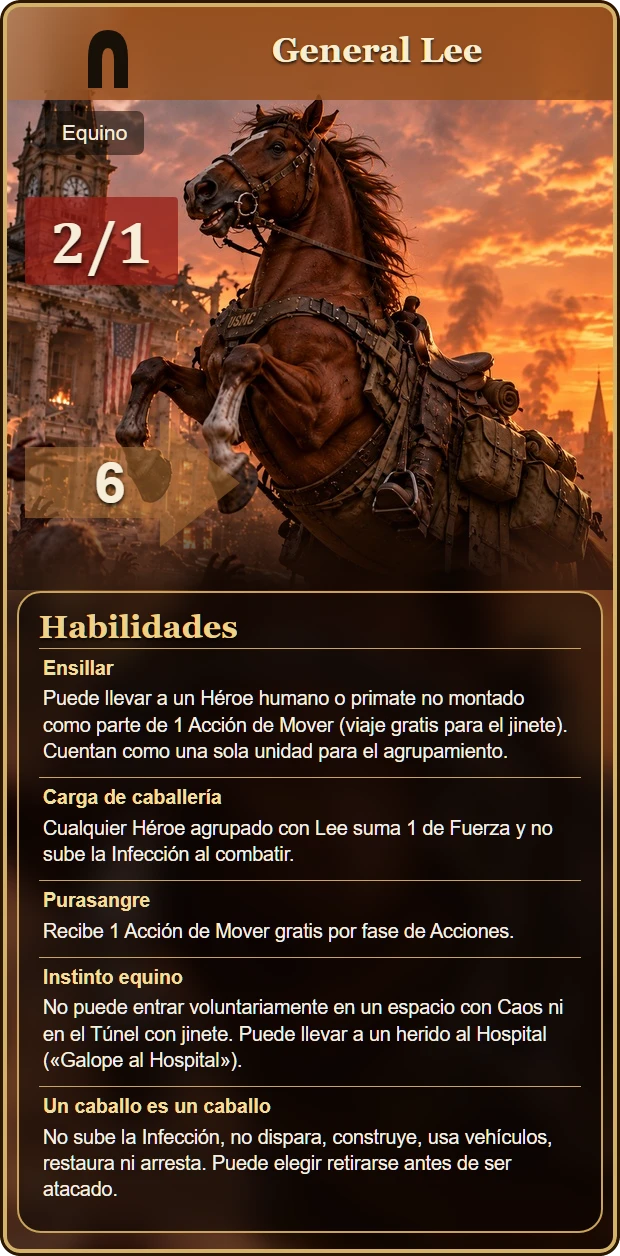
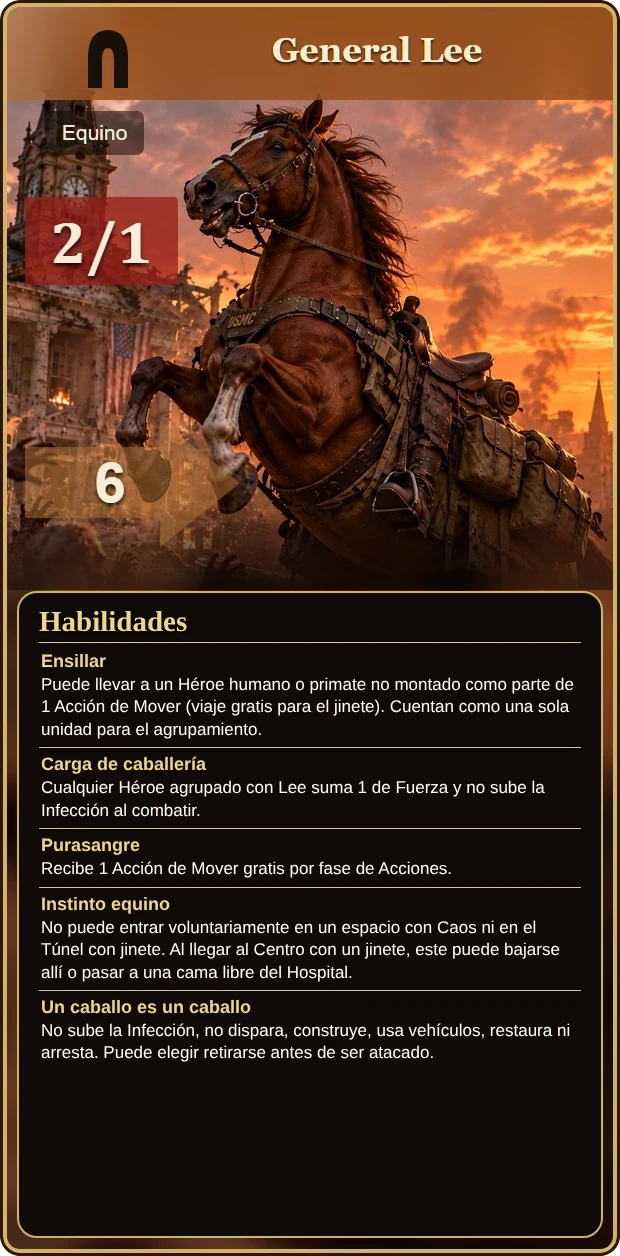
Carta del General Lee (arte alternativo): sin Galope al Hospital
Claude-Session: https://claude.ai/code/session_01KmRiLam16qxK6v4ebdfK1d

Changed region(s): [[0.0306, 0.4658, 0.9806, 0.9936]]

diff --git a/sw.js b/sw.js
@@ -1,7 +1,7 @@
 /* Service worker: permite instalar la web como app y jugar sin conexión.
    Código (html/js/css): red primero, con copia local de reserva. Imágenes y audio: caché primero. */
 'use strict';
-const CACHE = 'doz3-v94';
+const CACHE = 'doz3-v95';
 const SHELL = ['./', 'index.html', 'style.css', 'manifest.webmanifest', 'icons/icon-192.png', 'icons/icon-512.png', 'assets/portada.jpg', 'assets/fondo_nueva.webp', 'assets/fondo_ranking.webp',
   'js/version.js', 'js/data.js', 'js/events.js', 'js/dest.js', 'js/evlog.js', 'js/preview.js', 'js/obituario.js', 'js/engine.js', 'js/game.js', 'js/phases.js', 'js/actions.js', 'js/cardtext.js', 'js/ui.js', 'js/anim.js',
   'js/expansions.js', 'js/expansions2.js', 'js/sfx.js', 'js/sound.js', 'js/opciones.js', 'js/voz.js', 'js/ost.js', 'assets/sonidos/letras/letras.js', 'assets/sonidos/efectos/sfx_disparo.mp3', 'assets/sonidos/efectos/sfx_disparo_largo.mp3', 'js/mapzoom.js', 'js/movil.js', 'js/seedcode.js', 'js/save.js', 'js/main.js', 'js/bot.js'];

diff --git a/js/version.js b/js/version.js
@@ -1,2 +1,2 @@
 /* Fecha y hora de la última build (hora de Madrid). Se actualiza con cada cambio publicado. */
-const BUILD_TIME = '2026-11-07 18:40';
+const BUILD_TIME = '2026-11-07 19:00';

diff --git a/CHANGELOG.md b/CHANGELOG.md
@@ -2,6 +2,11 @@
 
 Registro de cambios por publicación (push a `main`). Lo más reciente, arriba. Cada entrada lleva la misma fecha y hora que `BUILD_TIME` de `js/version.js`.
 
+## 2026-11-07 19:00
+
+### Cambios
+- **Carta del General Lee (arte alternativo):** Instinto equino ya no menciona el «Galope al Hospital» y dice lo de la llegada al Centro con jinete. Ilustración, cabecera y fichas no cambian (`tools/generar_lee.mjs`). La carta de arte por defecto aún no.
+
 ## 2026-11-07 18:40
 
 ### Cambios
